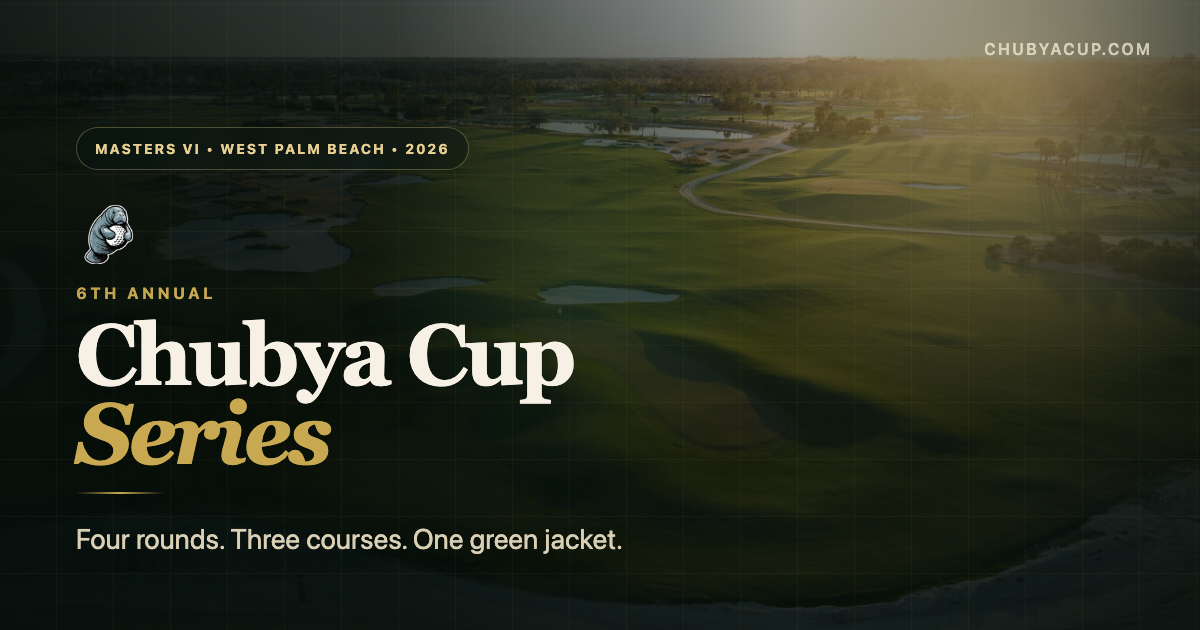
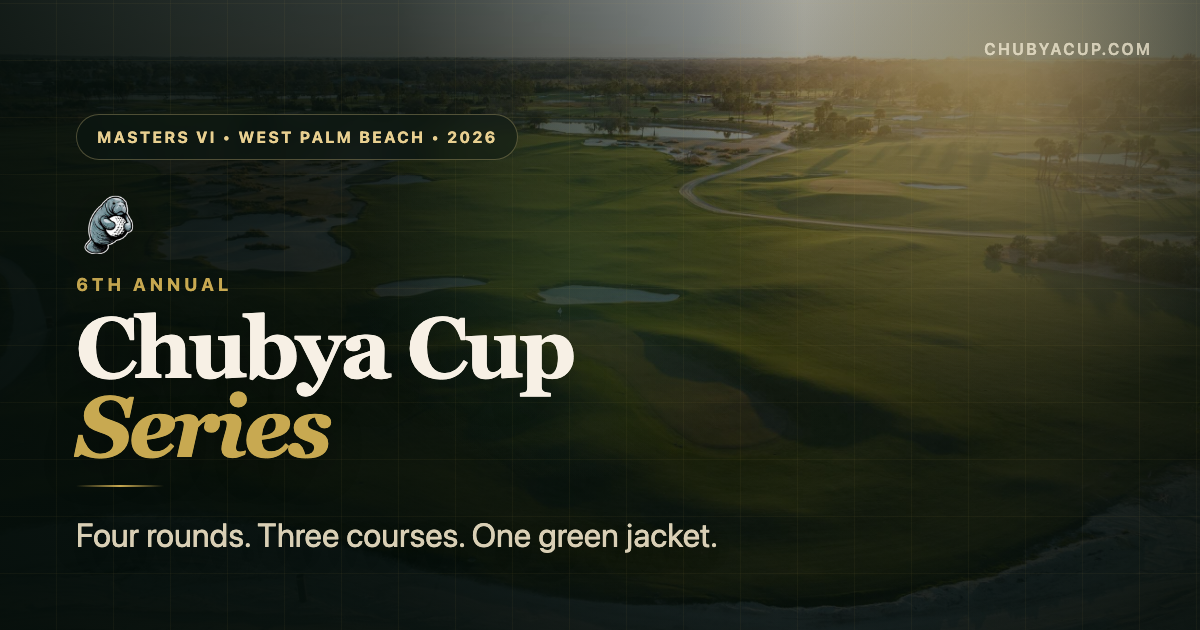
Improve social preview mobile legibility

Changed region(s): [[0.0617, 0.3016, 0.4933, 0.7841], [0.0617, 0.181, 0.4317, 0.2714], [0.0617, 0.8143, 0.6167, 0.8746]]

diff --git a/index.html b/index.html
@@ -10,14 +10,14 @@
   <meta property="og:description" content="Four rounds. Three courses. One green jacket." />
   <meta property="og:url" content="https://chubyacup.com/" />
   <meta property="og:site_name" content="Chubya Cup Series" />
-  <meta property="og:image" content="https://chubyacup.com/images/social-preview.png?v=2026-04-13-og" />
+  <meta property="og:image" content="https://chubyacup.com/images/social-preview.png?v=2026-04-13-og-mobiletype" />
   <meta property="og:image:width" content="1200" />
   <meta property="og:image:height" content="630" />
   <meta property="og:image:alt" content="Chubya Cup Series Masters VI social preview with Apogee North background." />
   <meta name="twitter:card" content="summary_large_image" />
   <meta name="twitter:title" content="Chubya Cup Series — Masters VI · West Palm 2026" />
   <meta name="twitter:description" content="Four rounds. Three courses. One green jacket." />
-  <meta name="twitter:image" content="https://chubyacup.com/images/social-preview.png?v=2026-04-13-og" />
+  <meta name="twitter:image" content="https://chubyacup.com/images/social-preview.png?v=2026-04-13-og-mobiletype" />
   <link rel="preconnect" href="https://fonts.googleapis.com" />
   <link rel="preconnect" href="https://fonts.gstatic.com" crossorigin />
   <link href="https://fonts.googleapis.com/css2?family=Cinzel:wght@500;600;700&family=Playfair+Display:wght@400;600;700;900&family=Inter:wght@300;400;500;600&display=swap" rel="stylesheet" />

diff --git a/social-preview.html b/social-preview.html
@@ -76,13 +76,13 @@
       align-items: center;
       gap: 12px;
       margin-bottom: 28px;
-      padding: 12px 18px;
+      padding: 13px 20px;
       border-radius: 999px;
       border: 1px solid rgba(232, 207, 144, 0.3);
       background: rgba(7, 20, 15, 0.46);
       color: var(--gold-300);
       font-family: system-ui, -apple-system, BlinkMacSystemFont, "Segoe UI", sans-serif;
-      font-size: 14px;
+      font-size: 16px;
       font-weight: 700;
       letter-spacing: 0.14em;
       text-transform: uppercase;
@@ -101,7 +101,7 @@
       margin-bottom: 14px;
       color: var(--gold-500);
       font-family: system-ui, -apple-system, BlinkMacSystemFont, "Segoe UI", sans-serif;
-      font-size: 16px;
+      font-size: 18px;
       font-weight: 700;
       letter-spacing: 0.22em;
       text-transform: uppercase;
@@ -133,7 +133,7 @@
       max-width: 680px;
       color: var(--text-secondary);
       font-family: system-ui, -apple-system, BlinkMacSystemFont, "Segoe UI", sans-serif;
-      font-size: 28px;
+      font-size: 33px;
       line-height: 1.35;
       text-shadow: 0 10px 24px rgba(0, 0, 0, 0.22);
     }
